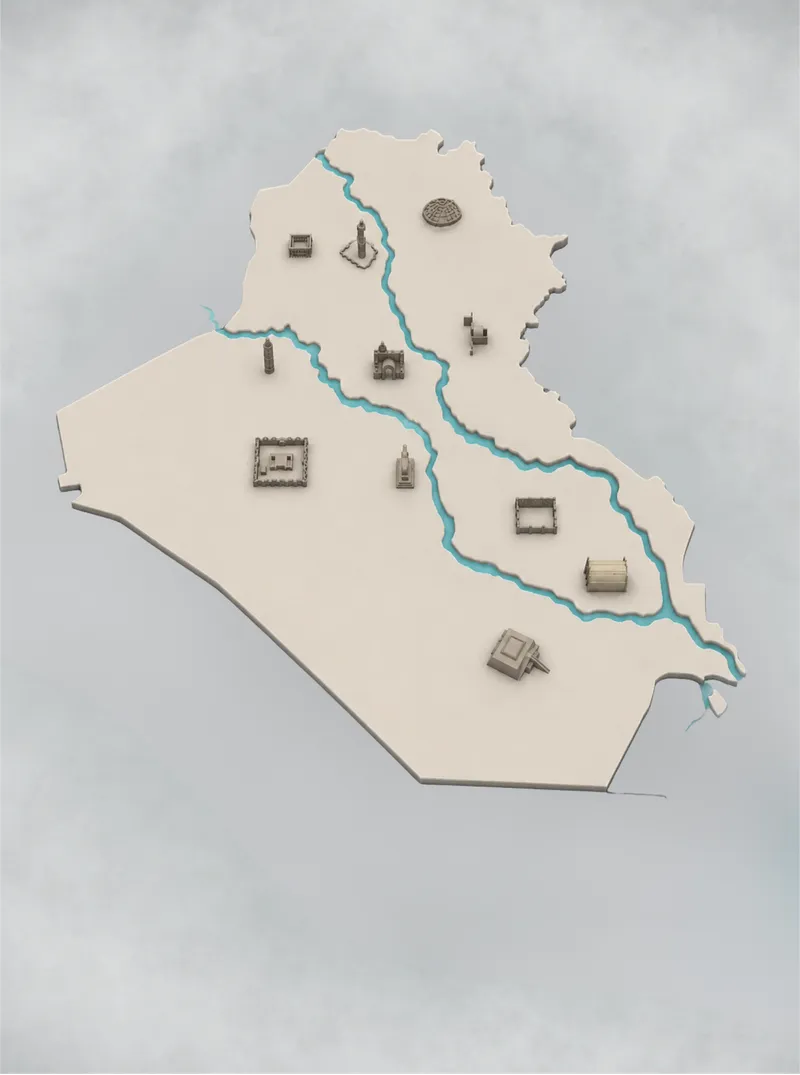
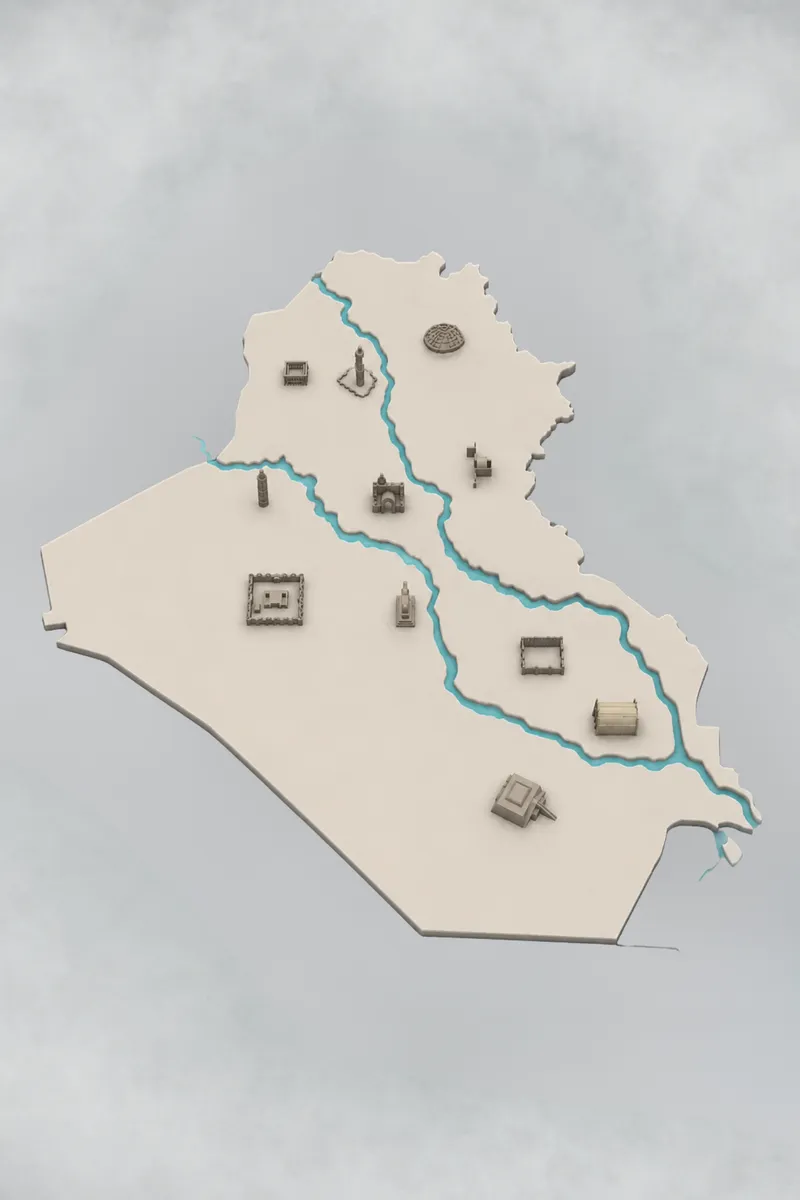
cards: 2:3 poster thumbnails for Heritage Iraq & Discover Mosul
The new cover art is authored at 2:3, so give those cards a matching 2:3
frame filled edge-to-edge (object-cover) — no crop, no mat. Lift the carousel
heading clear of the taller poster cards when the tab contains any.

Changed region(s): [[0.0625, 0.1228, 0.9688, 0.7981], [0.1562, 0.4912, 0.2188, 0.5219], [0.0312, 0.4605, 0.0625, 0.4912]]

diff --git a/src/components/CardSlideshow.jsx b/src/components/CardSlideshow.jsx
@@ -32,14 +32,13 @@ const CardSlideshow = ({ isCurrentSection, isDarkMode, category, headingKey }) =
     objectPosition,
   });
 
-  // Bespoke portrait cover art (Heritage Iraq, Discover Mosul) that carries its
-  // own soft-grey misty background. It letterboxes (contain) so the whole
-  // composition stays centred and uncropped, matted to that same grey so the
-  // bars read as the artwork's own background rather than as bars.
+  // Bespoke portrait cover art (Heritage Iraq, Discover Mosul), authored at the
+  // card's own 2:3 ratio so it fills the frame edge-to-edge with no crop. The
+  // `poster` flag swaps the shared landscape frame for a tall 2:3 one.
   const coverArt = (file) => ({
     imgUrl: `/img/${file}`,
-    fit: "contain",
-    matte: "#b9bcbd",
+    fit: "cover",
+    poster: true,
   });
 
   // `slug` links each card to its case study in src/content/caseStudies.js,
@@ -166,12 +165,18 @@ const CardSlideshow = ({ isCurrentSection, isDarkMode, category, headingKey }) =
     (card) => getCaseStudy(card.slug)?.category === category
   );
 
+  // Poster cards (2:3) stand taller than the landscape ones, so a carousel that
+  // contains any needs its heading lifted clear of the tallest card's top edge.
+  const hasPoster = cards.some((card) => card.poster);
+
   return (
     <div className="h-screen w-screen bg-light text-dark flex flex-col items-center justify-center">
       <h1
-        className={`absolute text-3xl font-nunito font-black text-secondary translate-y-[-260px] sm:translate-y-[-310px] transition-all duration-700 ease-in-out ${
-          isCurrentSection ? "" : "-translate-x-[1000px] opacity-0"
-        }`}
+        className={`absolute text-3xl font-nunito font-black text-secondary transition-all duration-700 ease-in-out ${
+          hasPoster
+            ? "translate-y-[-330px] sm:translate-y-[-395px]"
+            : "translate-y-[-260px] sm:translate-y-[-310px]"
+        } ${isCurrentSection ? "" : "-translate-x-[1000px] opacity-0"}`}
       >
         {t(headingKey)}
       </h1>
@@ -220,11 +225,10 @@ const CardSlideshow = ({ isCurrentSection, isDarkMode, category, headingKey }) =
                     <img
                       src={project.imgUrl}
                       alt={project.title}
-                      style={{
-                        objectPosition: project.objectPosition,
-                        backgroundColor: project.matte,
-                      }}
-                      className={`w-full h-[300px] sm:h-[420px] rounded-t-3xl ${
+                      style={{ objectPosition: project.objectPosition }}
+                      className={`w-full rounded-t-3xl ${
+                        project.poster ? "aspect-[2/3]" : "h-[300px] sm:h-[420px]"
+                      } ${
                         project.fit === "contain"
                           ? "object-contain"
                           : "object-cover"